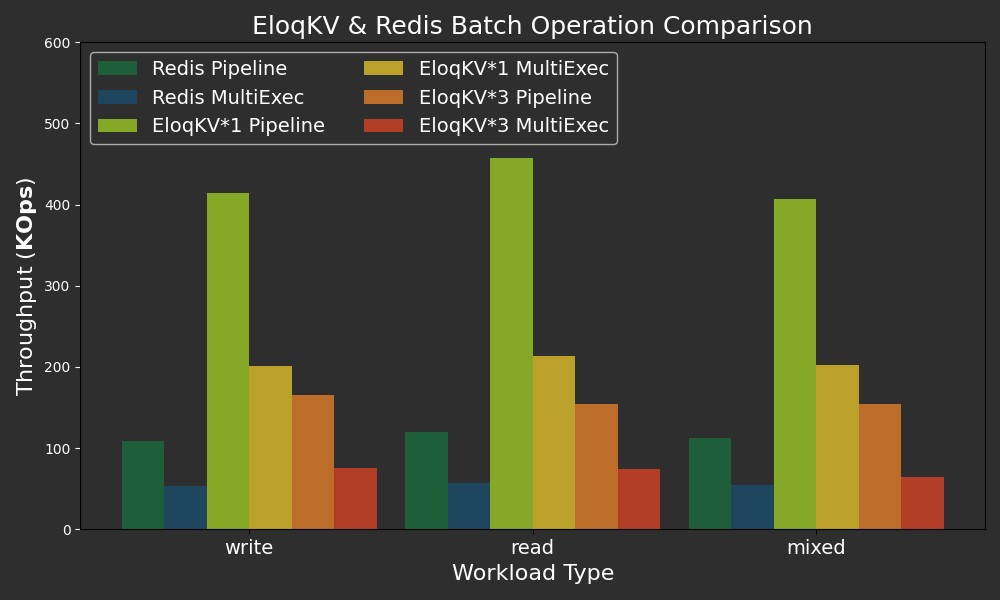
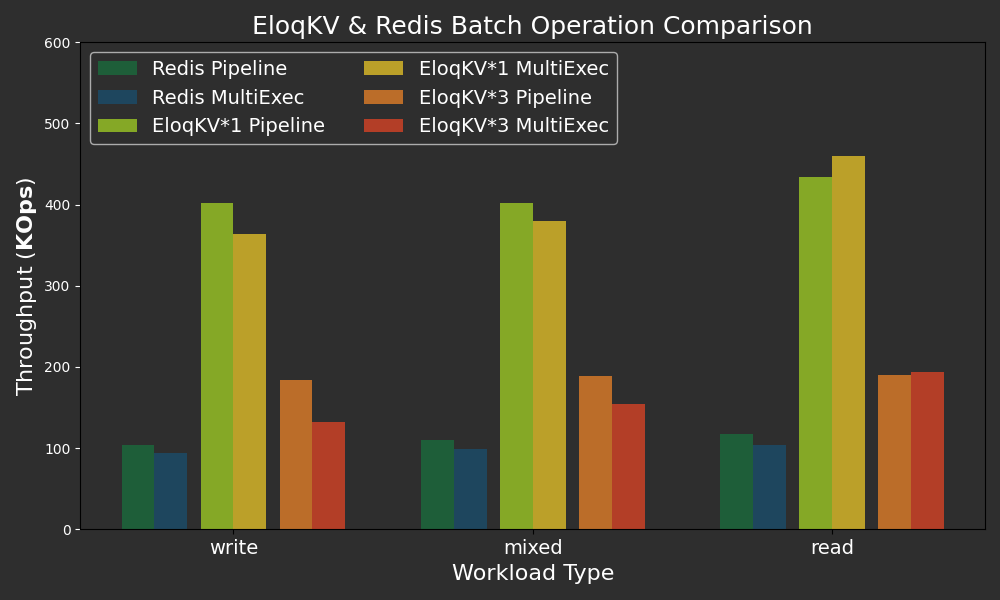
upadte

Changed region(s): [[0.124, 0.24, 0.961, 0.93], [0.496, 0.9, 0.558, 0.93]]

diff --git a/website/blog/2024-09-01-benchmark-transaction/img/eloqkv_redis_batch_dark.py b/website/blog/2024-09-01-benchmark-transaction/img/eloqkv_redis_batch_dark.py
@@ -5,24 +5,24 @@ import numpy as np
 #plt.style.use('dark_background')
 
 # Data for read workload
-read_concurrency_levels = ['write', 'read', 'mixed']
+read_concurrency_levels = ['write', 'mixed', 'read']
 
 #redis_read_throughput = [223.579,212.677,203.522,189.701]  # converted to K
 #dragonfly_read_throughput = [992.120,1529.612,1750.050, 1750.024]  # converted to K
 #eloqkv_read_throughput = [959.015,1405.901,1697.739,1593.660]
 #kvrocks_d1=[7.188,7.482,7.532]
-redis_pipe=[108.692,119.911,112.243 ]
-redis_pipe_lat=[2.354,2.134,2.280 ]
-redis_tx=[53.695,56.990,54.756 ]
-redis_tx_lat=[4.766,4.492, 4.674]
-eloqkv1_pipe=[414.863,457.557,407.488 ]
-eloqkv1_pipe_lat=[0.601, 0.557,0.62]
-eloqkv1_tx=[201.723, 213.788,202.409]
-eloqkv1_tx_lat=[1.257, 1.19,1.258]
-eloqkv3_pipe=[165.015,154.532,153.943 ]
-eloqkv3_pipe_lat=[ ]
-eloqkv3_tx=[75.329, 74.701,64.307]
-eloqkv3_tx_lat=[ ]
+redis_pipe=[103.329, 110.537, 117.767]
+redis_pipe_lat=[2.477, 2.316,2.172]
+redis_tx=[94.031,98.660,104.051]
+redis_tx_lat=[2.722,2.594,2.46]
+eloqkv1_rc_pipe=[401.930, 402.386,433.997 ]
+eloqkv1_rc_pipe_lat=[0.633, 0.634,0.588]
+eloqkv1_rc_tx=[364.017,379.812,460.216]
+eloqkv1_rc_tx_lat=[0.701,0.673, 0.554]
+eloqkv3_rc_pipe=[183.335, 188.668,190.550]
+eloqkv3_rc_pipe_lat=[]
+eloqkv3_rc_tx=[132.487,154.795,193.388]
+eloqkv3_rc_tx_lat=[]
 
 #redis_read_latency = [0.786,1.983,4.788,11.412]
 #dragonfly_read_latency = [0.252,0.444,0.956,2.191]
@@ -39,15 +39,15 @@ fig.patch.set_facecolor('#2e2e2e')  # Figure background color
 ax1.set_facecolor('#2e2e2e')  # Axes background color
 
 # Bar plots for read throughput
-bar_width = 0.15
+bar_width = 0.11
 index_read = np.arange(len(read_concurrency_levels))
 
-bar1_read = ax1.bar(index_read - 2.5*bar_width, redis_pipe, bar_width, alpha=0.8, color='#1A6B3D', label='Redis Pipeline')
-bar1_read = ax1.bar(index_read - 1.5*bar_width, redis_tx, bar_width, alpha=0.8, color='#1A4D6B', label='Redis MultiExec')
-bar2_read = ax1.bar(index_read - 0.5*bar_width, eloqkv1_pipe, bar_width, alpha=0.8, color='#9CC725', label='EloqKV*1 Pipeline')
-bar3_read = ax1.bar(index_read + 0.5*bar_width, eloqkv1_tx, bar_width, alpha=0.8, color='#E0BD28', label='EloqKV*1 MultiExec')
-bar4_read = ax1.bar(index_read+ 1.5*bar_width, eloqkv3_pipe, bar_width, alpha=0.8, color='#E07D28', label='EloqKV*3 Pipeline')
-bar4_read = ax1.bar(index_read+ 2.5*bar_width, eloqkv3_tx, bar_width, alpha=0.8, color='#D64326', label='EloqKV*3 MultiExec')
+bar1_read = ax1.bar(index_read - 2.9*bar_width, redis_pipe, bar_width, alpha=0.8, color='#1A6B3D', label='Redis Pipeline')
+bar1_read = ax1.bar(index_read - 1.9*bar_width, redis_tx, bar_width, alpha=0.8, color='#1A4D6B', label='Redis MultiExec')
+bar2_read = ax1.bar(index_read - 0.5*bar_width, eloqkv1_rc_pipe, bar_width, alpha=0.8, color='#9CC725', label='EloqKV*1 Pipeline')
+bar3_read = ax1.bar(index_read + 0.5*bar_width, eloqkv1_rc_tx, bar_width, alpha=0.8, color='#E0BD28', label='EloqKV*1 MultiExec')
+bar4_read = ax1.bar(index_read+ 1.9*bar_width, eloqkv3_rc_pipe, bar_width, alpha=0.8, color='#E07D28', label='EloqKV*3 Pipeline')
+bar4_read = ax1.bar(index_read+ 2.9*bar_width, eloqkv3_rc_tx, bar_width, alpha=0.8, color='#D64326', label='EloqKV*3 MultiExec')
 
 ax1.set_xlabel('Workload Type', color='white', fontsize=16)
 ax1.set_ylabel('Throughput ($\mathbf{KOps}$)', color='white', fontsize=16)
